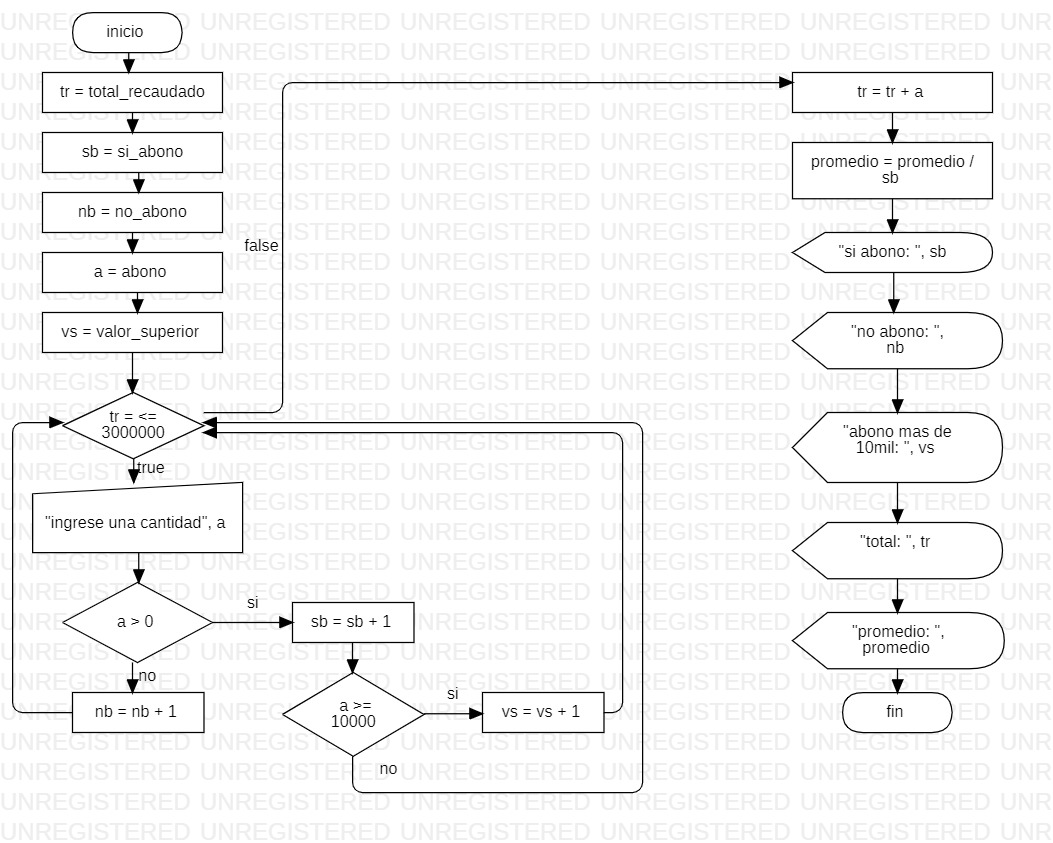
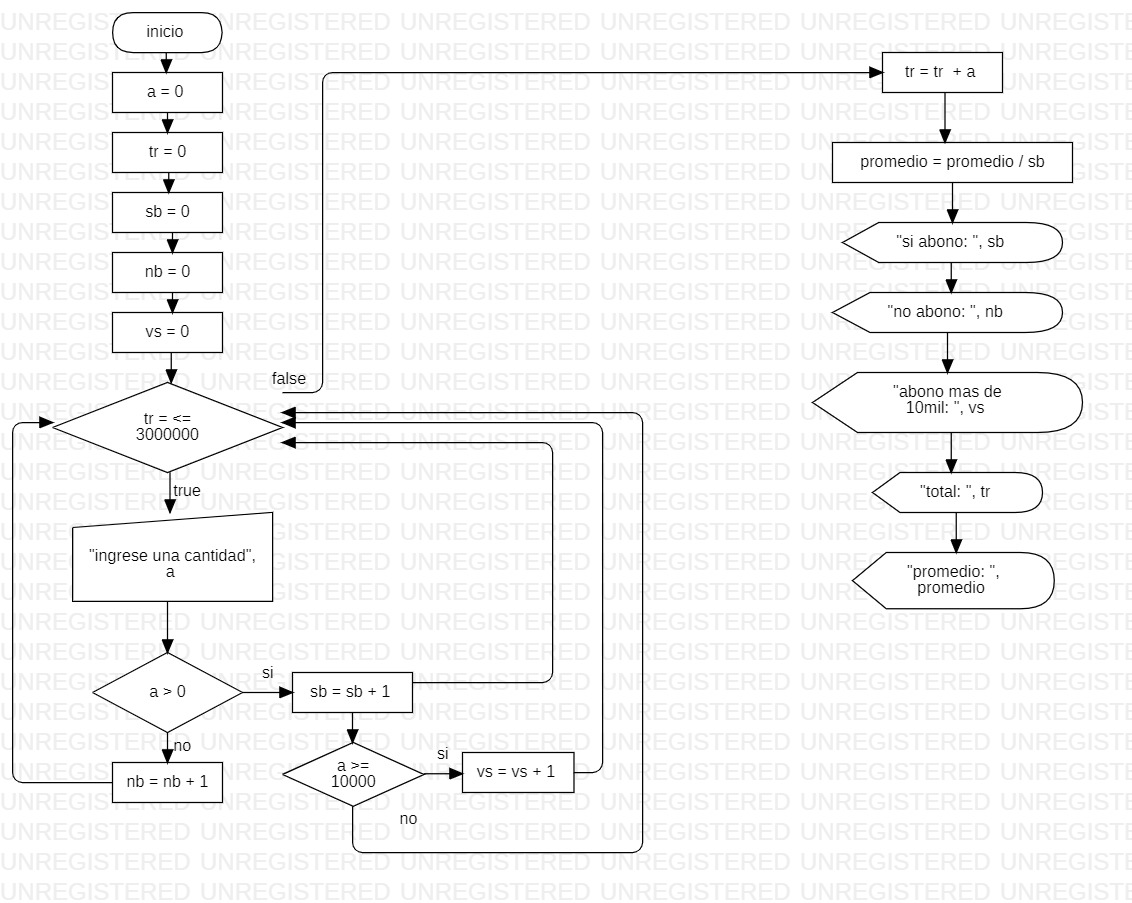
correction

diff --git a/luisa_cortezano/ejercicio.md b/luisa_cortezano/ejercicio.md
@@ -1,10 +1,10 @@
 ```
 Sub recolecta()
- tr = total_recaudado
- sb = si_abono
- nb = no_abono
- a = abono
- vs = valor_superior
+ tr = 0
+ sb = 0
+ nb = 0
+ a = 0
+ vs = 0
  
  While tr <= 3000000
    a = Int(InputBox("ingrese una cantidad"))
